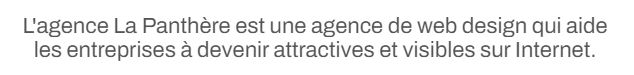
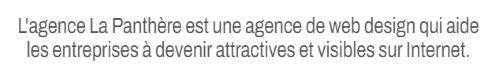
modification image, couleur texte, changement image à paragraphe et h2

diff --git a/index.html b/index.html
@@ -3,7 +3,7 @@
 
 <head>
 	<meta charset="utf-8">
-	<meta name="description" content="l'agence la panthère, une agence de webdesign implantée à lyon. Spécialiste dans la conception de site internet, référencement, webmarketing et design graphique">
+	<meta name="description" content="l'agence la panthère, une agence de webdesign implantée à lyon. Nous sommes specialiste² dans la conception de site internet, référencement, webmarketing et design graphique">
 	<meta name="viewport" content="width=device-width, initial-scale=1.0, viewport-fit=cover">
 	<link rel="shortcut icon" type="image/png" href="favicon.jpg">
 	<link rel="stylesheet" type="text/css" href="./css/bootstrap.css">
@@ -18,7 +18,7 @@
 	<script src="./js/jquery.touchSwipe.js" defer></script>
 	<script src="./js/gmaps.js"></script>
 
-	<title>L'agence "La panthère" Accueil</title>
+	<title>L'agence de webdesign "La panthère"</title>
 
 
 	<!-- Analytics -->
@@ -45,11 +45,6 @@
 								web design, illustrations, design de site web, site web, web, internet, site internet,
 								site
 							</div>
-							<button id="nav-toggle" type="button" class="ui-navbar-toggle navbar-toggle"
-								data-toggle="collapse" data-target=".navbar-1">
-								<span class="sr-only">Toggle navigation</span><span class="icon-bar"></span><span
-									class="icon-bar"></span><span class="icon-bar"></span>
-							</button>
 						</div>
 						<div class="collapse navbar-collapse navbar-1 special-dropdown-nav">
 							<ul class="site-navigation nav navbar-nav">
@@ -97,8 +92,9 @@
 		<div class="container bloc-md">
 			<div class="row">
 				<div class="col-sm-12 text-center">
-					<img alt="agence web, agence web paris, web design paris, stratégie web" src="img/title.png" />
+					<h2>L'agence La Panthère est une agence de web design qui aide <br>les entreprises à devenir attractives et visibles sur internet.</h2>
 				</div>
+
 			</div>
 			<div class="row voffset-lg med-width-whitespace">
 				<div class="col-sm-4">
@@ -140,7 +136,8 @@
 			</div>
 			<div class="row voffset-lg voffset">
 				<div class="col-xs-12 col-md-8 col-md-offset-2 text-center">
-					<img alt="agence web, agence web paris, web design paris, stratégie web" src="img/citation.png" />
+					<p class="paragraph"><b><i>"L'agence La Panthère est une excellente agence web !  Les<br> web designers ont réussi à capturer l'essence de notre <br> entreprise et à l'intégrer à notre site. Cela nous a aidé à <br> doubler nos ventes en ligne à Lyon."<br>
+						</i></b>Maxime Guibard, PDG de À vos fourchettes</p>
 
 				</div>
 			</div>
@@ -245,7 +242,7 @@
 	<div class="bloc bgc-dark-slate-blue bg-banniere d-bloc bloc-bg-texture texture-paper" id="bloc-5-cta">
 		<div class="container bloc-lg">
 			<div class="row">
-				<h2 class="mg-md text-center tc-white">
+				<h2 class="mg-md text-center tc-white1">
 					Prêt pour redonner vie à votre projet ?<br>Contactez notre équipe !
 				</h2>
 				<div class="col-sm-12 text-center">

diff --git a/style.css b/style.css
@@ -55,7 +55,7 @@ justify-content: space-evenly;
 .bloc-md {
     padding: 50px;
 }
-
+h2
 .bloc-sm {
     padding: 20px 50px;
 }
@@ -95,7 +95,7 @@ justify-content: space-evenly;
 }
 
 .texture-paper::before {
-    background: url("img/texture-paper.png");
+    background: url("img/agence-la-panthere.png");
     background-size: 280px 280px;
 }
 
@@ -436,7 +436,9 @@ nav .caret {
     margin-top: 10px;
     margin-bottom: 40px;
 }
-
+.paragraph{
+    font-size: 18px;
+}
 .btn {
     margin: 0 5px 5px 0;
 }
@@ -780,6 +782,9 @@ h4 {
 
 .tc-white {
     color: #F3976C!important;
+}
+.tc-white1{
+    color:rgb(255, 255, 255) !important
 }
 
 .btn-atomic-tangerine {
